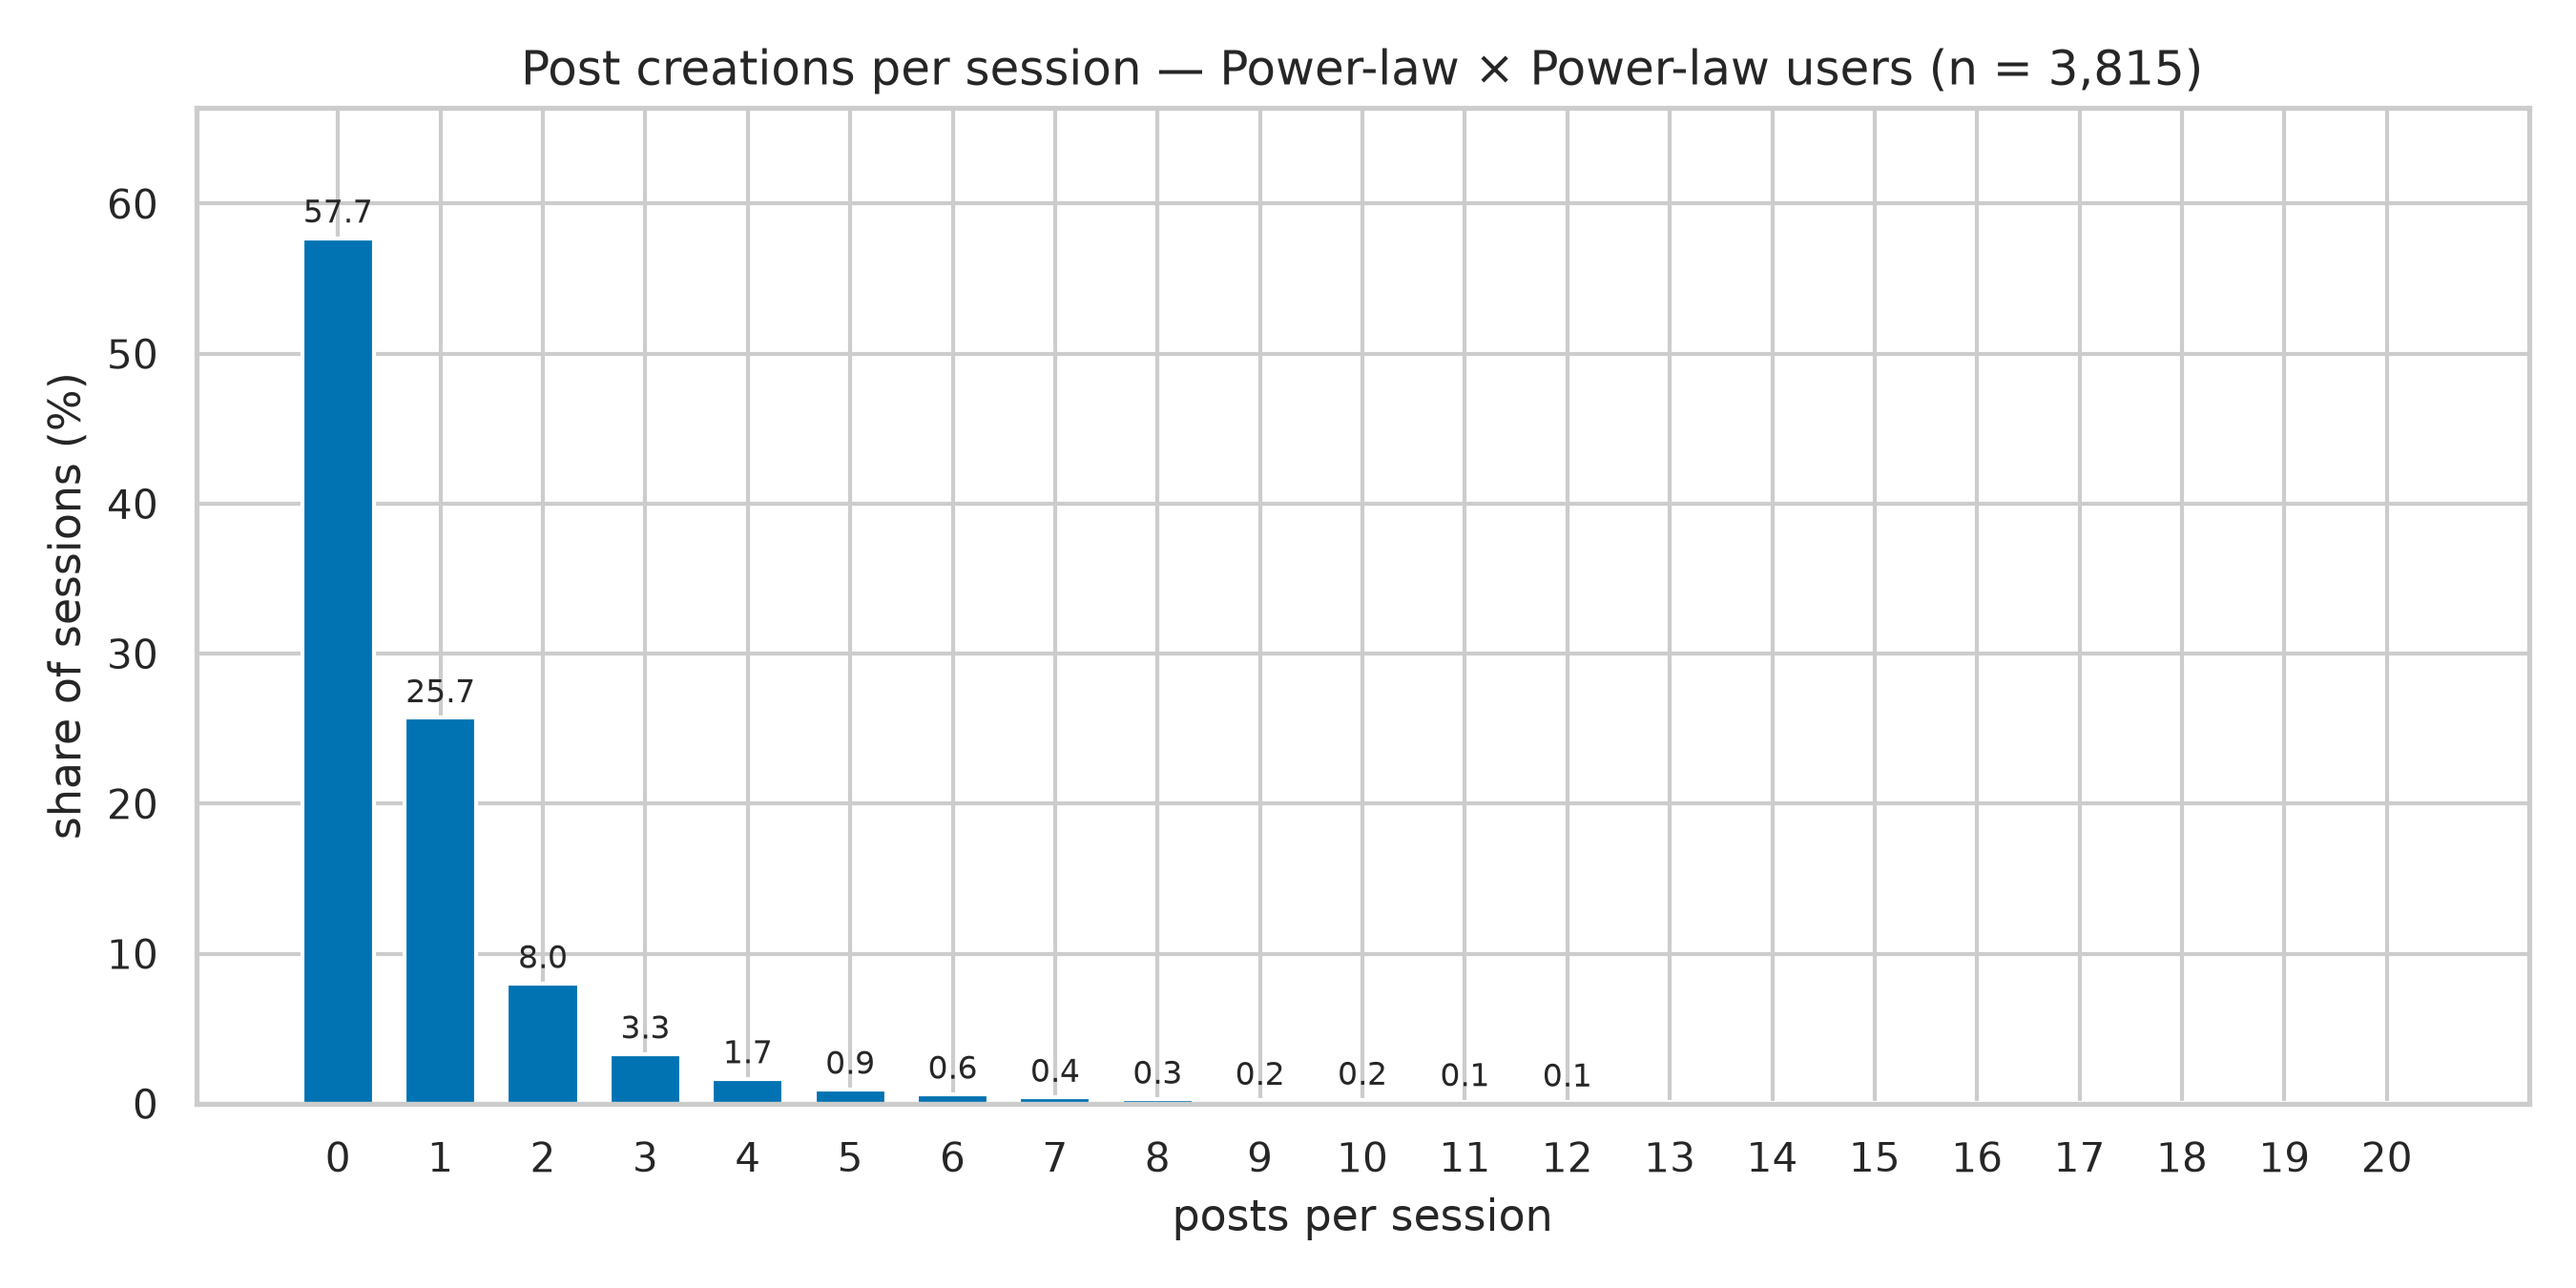
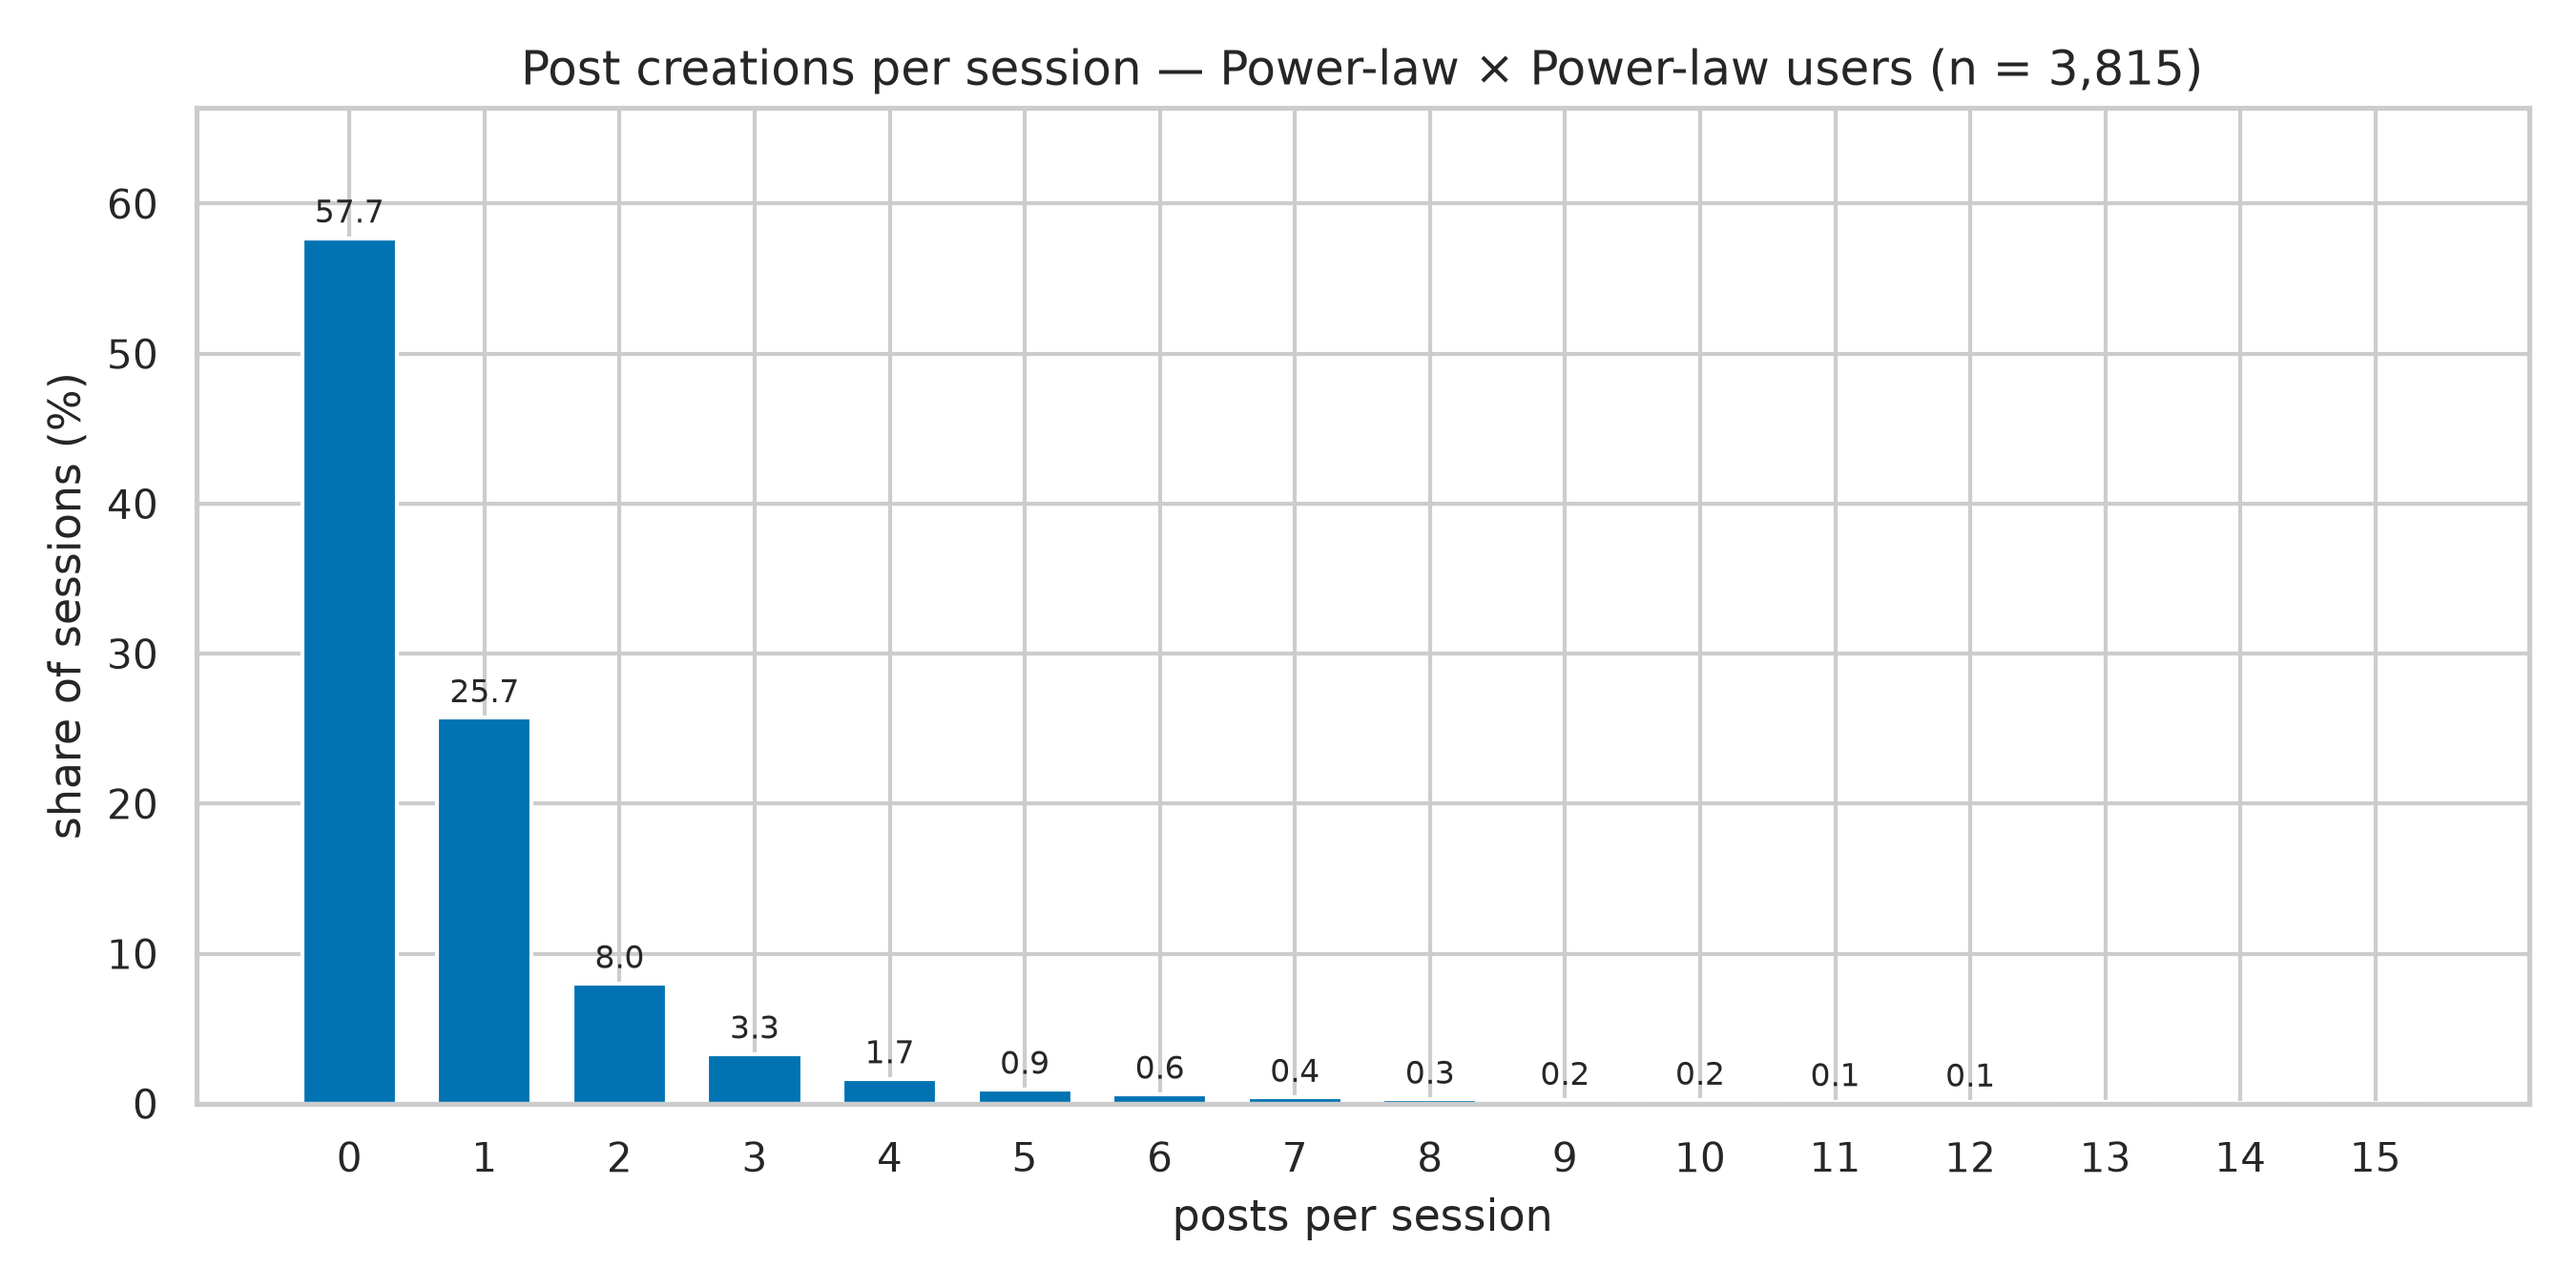
Posts-per-session: data-driven bar range, no empty categories

diff --git a/sessions/inter-post-creation/posts_per_session_by_pair.py b/sessions/inter-post-creation/posts_per_session_by_pair.py
@@ -28,7 +28,8 @@ REPO_SESSIONS = HERE.parent
 WIDE = REPO_SESSIONS / "distribution-fit" / "results" / "pair_params_wide.tsv"
 SPU = HERE / "results" / "sessions_per_user.tsv"
 MIN_PAIR_SHARE = 0.01
-K_MAX = 20  # last pooled category with share >= 0.01%
+VISIBLE = 0.0005  # smallest bar share rendered (below = empty-looking)
+TAIL_MAX = 0.005  # dropped tail must stay below this
 
 # ── Thesis styling ───────────────────────────────────────────────────────
 sns.set_theme(style="whitegrid")
@@ -92,19 +93,25 @@ def main():
         sel = counts[np.isin(sess_did, pos)]
         n = len(sel)
         dist = np.bincount(sel)
-        pct = dist[:K_MAX + 1] / n * 100
-        tail = dist[K_MAX + 1:].sum()
+        d = dist / n
+        K = int(np.max(np.nonzero(d >= VISIBLE)[0])) if (d >= VISIBLE).any() else 0
+        tail = d[K + 1:].sum()
+        while tail >= TAIL_MAX and K < len(d) - 1:
+            K += 1
+            tail = d[K + 1:].sum()
         print(f"\n{dur} x {gap}: {n_users:,} users, {n:,} sessions "
-              f"({100 * n / len(counts):.1f}% of all)  "
-              f"k>{K_MAX}: {100 * tail / n:.3f}%", file=sys.stderr)
-        if 100 * tail / n >= 0.5:
-            print(f"  WARNING: dropped tail >= 0.5% — raise K_MAX", file=sys.stderr)
-        for k in range(K_MAX + 1):
-            dist_rows.append((dur, gap, n_users, k, int(dist[k]), round(pct[k], 3)))
-        dist_rows.append((dur, gap, n_users, f"{K_MAX + 1}+", int(tail),
-                          round(100 * tail / n, 3)))
+              f"({100 * n / len(counts):.1f}% of all)  bars 0..{K}, "
+              f"dropped tail: {100 * tail:.3f}%", file=sys.stderr)
+        if tail >= TAIL_MAX:
+            print("  WARNING: dropped tail >= 0.5% — raise VISIBLE", file=sys.stderr)
 
-        x = np.arange(K_MAX + 1)
+        pct = d[:K + 1] * 100
+        for k in range(K + 1):
+            dist_rows.append((dur, gap, n_users, k, int(dist[k]), round(pct[k], 3)))
+        dist_rows.append((dur, gap, n_users, f"{K + 1}+", int(dist[K + 1:].sum()),
+                          round(100 * tail, 3)))
+
+        x = np.arange(K + 1)
         labels = [f"{p:.1f}" if p >= 0.1 else "" for p in pct]
         fig, ax = plt.subplots(figsize=(9, 4.5))
         ax.bar(x, pct, color=sns.color_palette("colorblind")[0], width=0.7)

diff --git a/sessions/inter-post-creation/posts_per_session.py b/sessions/inter-post-creation/posts_per_session.py
@@ -31,7 +31,8 @@ from _core import get_connection, _execute, TBL_PREFIX
 BATCH_DIDS = 2000
 CACHE = HERE / "results" / "posts_per_session_cache.npz"
 SPU = HERE / "results" / "sessions_per_user.tsv"
-K_MAX = 20  # last category with share >= 0.01%; k>20 sums to 0.08%
+VISIBLE = 0.0005  # smallest bar share rendered (below = empty-looking)
+TAIL_MAX = 0.005  # dropped tail must stay below this
 
 # ── Thesis styling ───────────────────────────────────────────────────────
 sns.set_theme(style="whitegrid")
@@ -104,12 +105,18 @@ def main():
           f"max {counts.max():.0f}", file=sys.stderr)
 
     dist = np.bincount(counts)
-    pct = dist[:K_MAX + 1] / n * 100
-    print(f"  share of k>{K_MAX}: {100 * dist[K_MAX + 1:].sum() / n:.3f}%", file=sys.stderr)
-    if 100 * dist[K_MAX + 1:].sum() / n >= 0.5:
-        print("  WARNING: dropped tail >= 0.5% — raise K_MAX", file=sys.stderr)
+    d = dist / n
+    K = int(np.max(np.nonzero(d >= VISIBLE)[0])) if (d >= VISIBLE).any() else 0
+    tail = d[K + 1:].sum()
+    while tail >= TAIL_MAX and K < len(d) - 1:
+        K += 1
+        tail = d[K + 1:].sum()
+    print(f"  bars 0..{K}, dropped tail: {100 * tail:.3f}%", file=sys.stderr)
+    if tail >= TAIL_MAX:
+        print("  WARNING: dropped tail >= 0.5% — raise VISIBLE", file=sys.stderr)
 
-    x = np.arange(K_MAX + 1)
+    pct = d[:K + 1] * 100
+    x = np.arange(K + 1)
     labels = [f"{p:.1f}" if p >= 0.1 else "" for p in pct]
     fig, ax = plt.subplots(figsize=(9, 4.5))
     ax.bar(x, pct, color=sns.color_palette("colorblind")[0], width=0.7)
